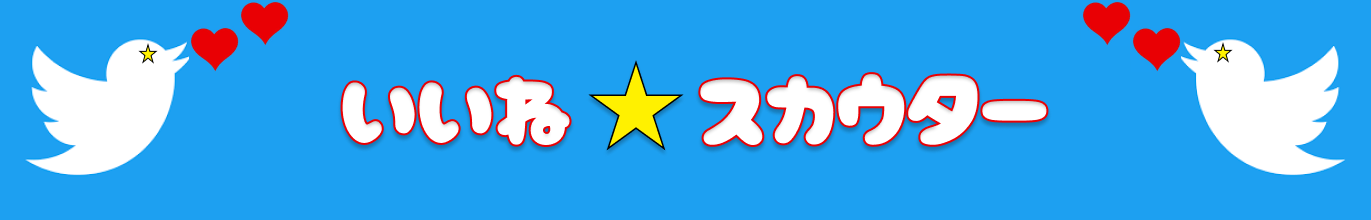
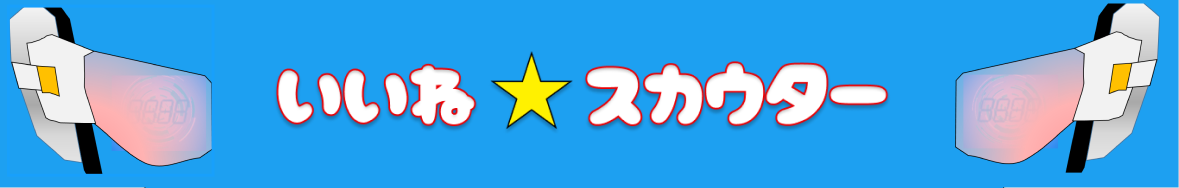
indexを修正。画像を変更

diff --git a/templates/index.html b/templates/index.html
@@ -63,7 +63,7 @@
 
     <script type="text/javascript">
       $("#text").tooltip({
-        title: "@ツイッターアカウントのIDを入力してください"
+        title: "ツイッターアカウントのIDを入力してください"
       });
     </script>
   </body>
